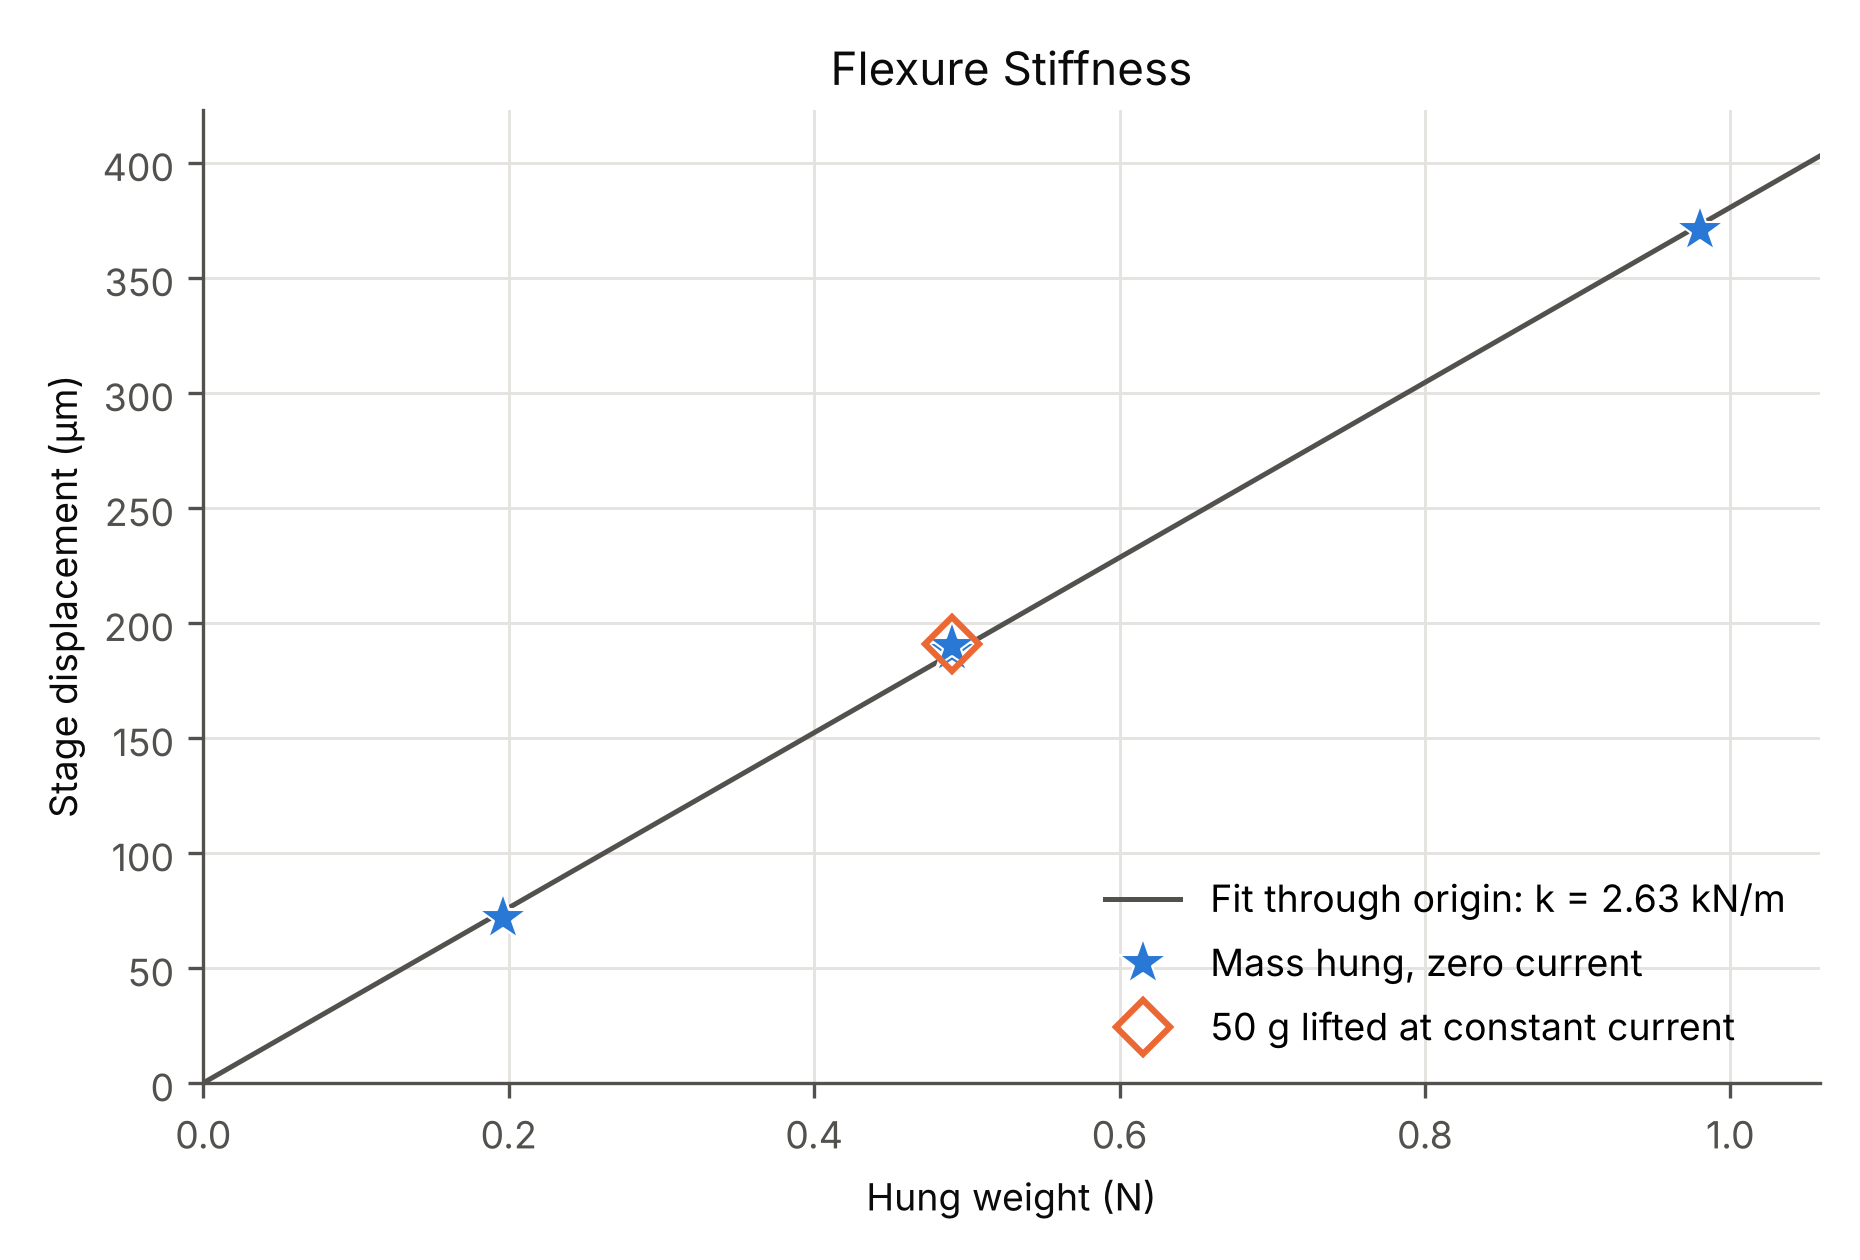
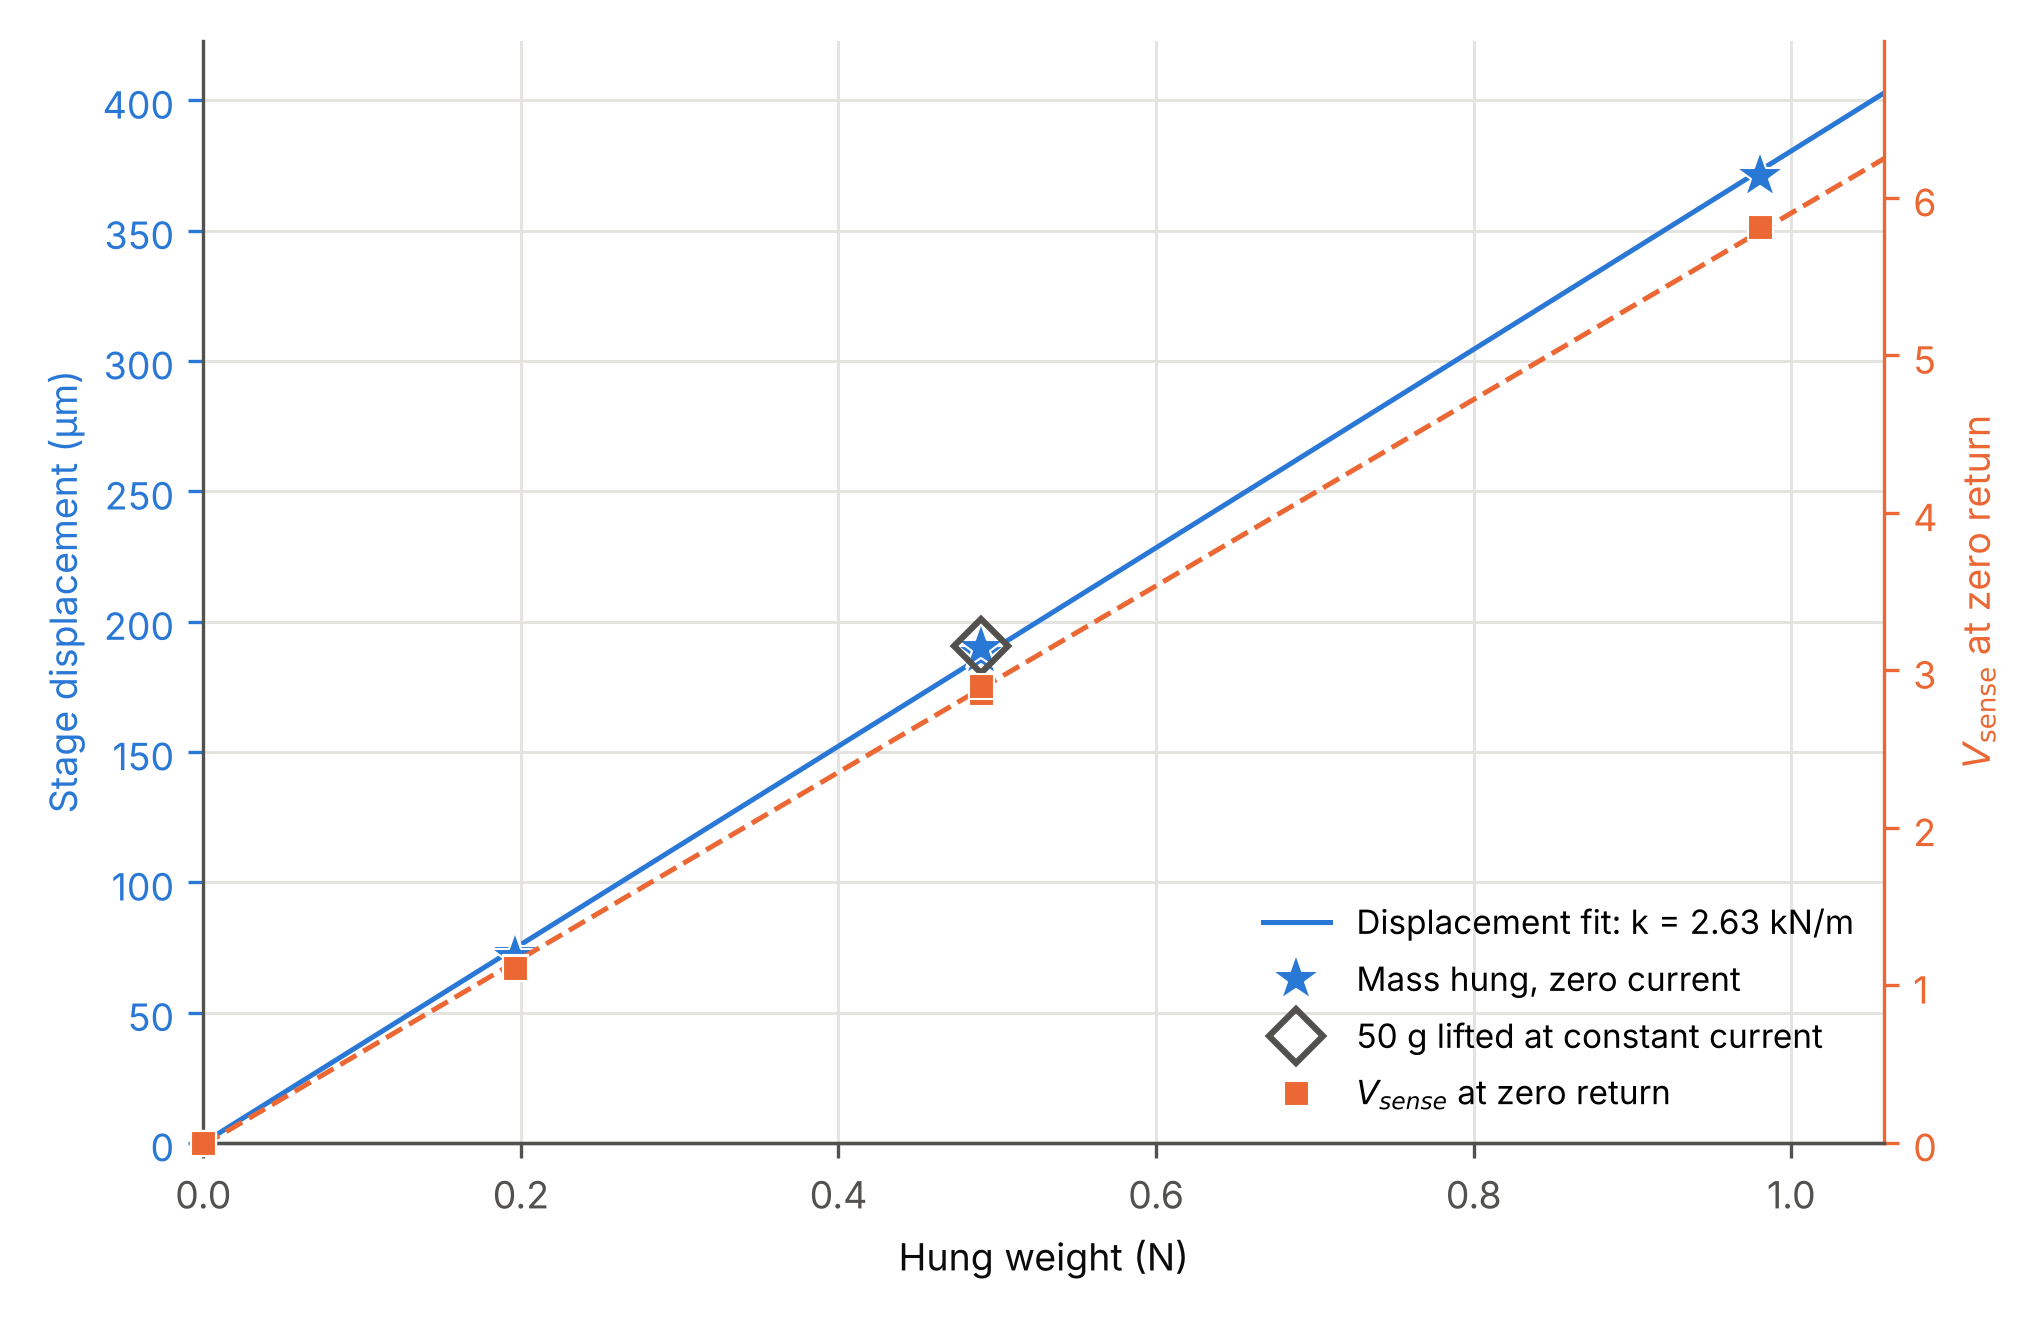
linkedin posted

diff --git a/body-aspe_nanoindenter.html b/body-aspe_nanoindenter.html
@@ -83,7 +83,8 @@
         src="assets/projects/aspe_nanoindenter/magnet_shim.png"
         alt="VCA Cal Attempt"
         onclick="lb(this)">
-    <p>Calibration Attempt Results... After a few repeat measurements, it became very obvious manual alignment error in the voice coil and magnet's concentricity axis was much greater than its internal positioning in the stroke range. Since we were a little short on time, and also the actual indentation would rarely exceed 1mm, we moved on to the next step.</p>
+    <p>Calibration Attempt Results... After a few repeat measurements, it became very obvious manual alignment error in the voice coil and magnet's concentricity axis was much greater than its internal positioning in the stroke range.<span class="footnote">*
+    <span class="footnote-tip">The magnet and voice coil both used 10-32 bolts, and the mech block grid was designed around 1/4". That led to some placement variability, plus the voice coil being suspended on a cantilevered leaf spring flexure. (Maybe if we had more time, we could've 3D printed an alignment jig instead of doing it by feel)</span></span> Since we were a little short on time, and also the actual indentation would rarely exceed 1mm, we moved on to the next step.</p>
     <div class="clear"></div>
 
     <p>VCA Force is linear with Current, but we only have direct Voltage input, with Vsense as a reference voltage to calculate current. So using provided calibration masses, we wanted to validate the linearity with sustained use (heating in the resistor affecting reference Vsense), find the proportionality between Vin and Force, as well as gauge our flexure's stiffness. </p>
@@ -119,12 +120,15 @@
     <h3>LabVIEW Controls</h3>
     <img class="img-center lb"
      style="--w: 650px"
-     src="assets/projects/aspe_nanoindenter/PresentationSlide.jpg"
+     src="assets/projects/aspe_nanoindenter/PresentationSlide.png"
      alt="Slide from Final Presentation"
      onclick="lb(this)">
+     <p>We basically went as simple as possible for the controls, having not much labVIEW experience. The state machine cycles through all steps needed for the Oliver-Pharr process automatically, and Vin was controlled using Vsense as current feedback, with Force estimated using the displacement (consistent with the known flexure stiffness until contact). An initial idle state estimates the rate of thermal drift throughout the indentation, as well as baseline noise. The free-air approach allows for active fitting of the flexure stiffness, and a contact detection of 3mN to begin the loading stage. Then a t_hold, unloading, t_drift at 10% Force, and then final unload. There was also an Abort state that would trigger upon error to prevent damage to the tip. If we had more time, we probably could've improved the contact detection, as it was a large source of error, especially at the 50 mN indentation. Some sort of signal processing for noise reduction probably would have been very helpful too.</p>
 </section>
 <section>
     <h3>Testing</h3>
+    <p>After validating the control loop worked, it was time to test! We don't have pictures of the substrate holder, but we did a few attempts using the dummy tip first to ensure the system was fully functional through the loading/unloading stages. </p>
+    <p>We started by taping the Cu test substrates to the holder. We taped over the corners, since double sided tape under the material would create artificial compliance that wasn't from the Cu. </p>
 </section>
 <section>
     <h3>Competition! (and Murphy's Law)</h3>
@@ -133,5 +137,7 @@
         <img src="assets/projects/aspe_nanoindenter/airport.jpg"  alt="1" class="lb" onclick="lb(this)">
         <img src="assets/projects/aspe_nanoindenter/airportFloor.jpg"   alt="2"  class="lb" onclick="lb(this)">
     </div>
-
+    <p>Uh so we missed our flight... A 10 minute uber to the airport got canceled 3x, got stuck in local public school traffic, had check-in issues and were stuck behind a family of 10 rearranging suitcases for an international flight, and then sprinting to TSA with a rather suspicious looking box...</p>
+    <p>So most of the day was spent catching up on homework + sleep on the airport floor. I was also reading over the Lion Capacitance Probe datasheet and realized you can modify the bandwidth by flipping an internal switch, but needed a screwdriver to access. Unfortunately, my backpack screwdriver is on a multitool with a knife, so I didn't have it. We spent like an hour wandering the airport trying to find a screwdriver, but what else were we going to do lol. Changing the filter to 100 Hz ended up improving our stdev by about 10x, which was a brilliant airport floor discovery.</p>
+    <p>When we got there 12 hours late, we realized there might've been some miscommunication resulting in a lack of hotel room. Hence dubbing Illinois/Michigan as the Hobo Team that pulled up 4 hours late to a 5 hour competition.</p>
 </section>

diff --git a/courses.js b/courses.js
@@ -23,6 +23,10 @@ const EDUCATION = [
     minor: "Semiconductor Engineering",
     dates: "2024 – 2028",
     courses: [
+      { name: "Nanofabrication & Characterization",         skills: [] },
+      { name: "Signal Processing",         skills: [] },
+      { name: "Engineering Materials",         skills: [] },
+      { name: "Mechanical Design II",         skills: [] },
       { name: "Mechanical Design I",              skills: ["Fusion 360"] },
       { name: "Dynamics of Mechanical Systems",   skills: ["MATLAB"] },
       { name: "Design for Manufacturing",         skills: [] },
@@ -40,6 +44,8 @@ const EDUCATION = [
     minor: "Quantum Information Science",
     dates: "2024 – 2028",
     courses: [
+      { name: "Physics and Modeling of Semiconductor Devices",            skills: [] },
+      { name: "Condensed Matter Physics",            skills: [] },
       { name: "Semiconductor Devices",            skills: [] },
       { name: "Atomic Physics & Quantum Theory",  skills: [] },
       { name: "Electromagnetic Fields",           skills: [] },
